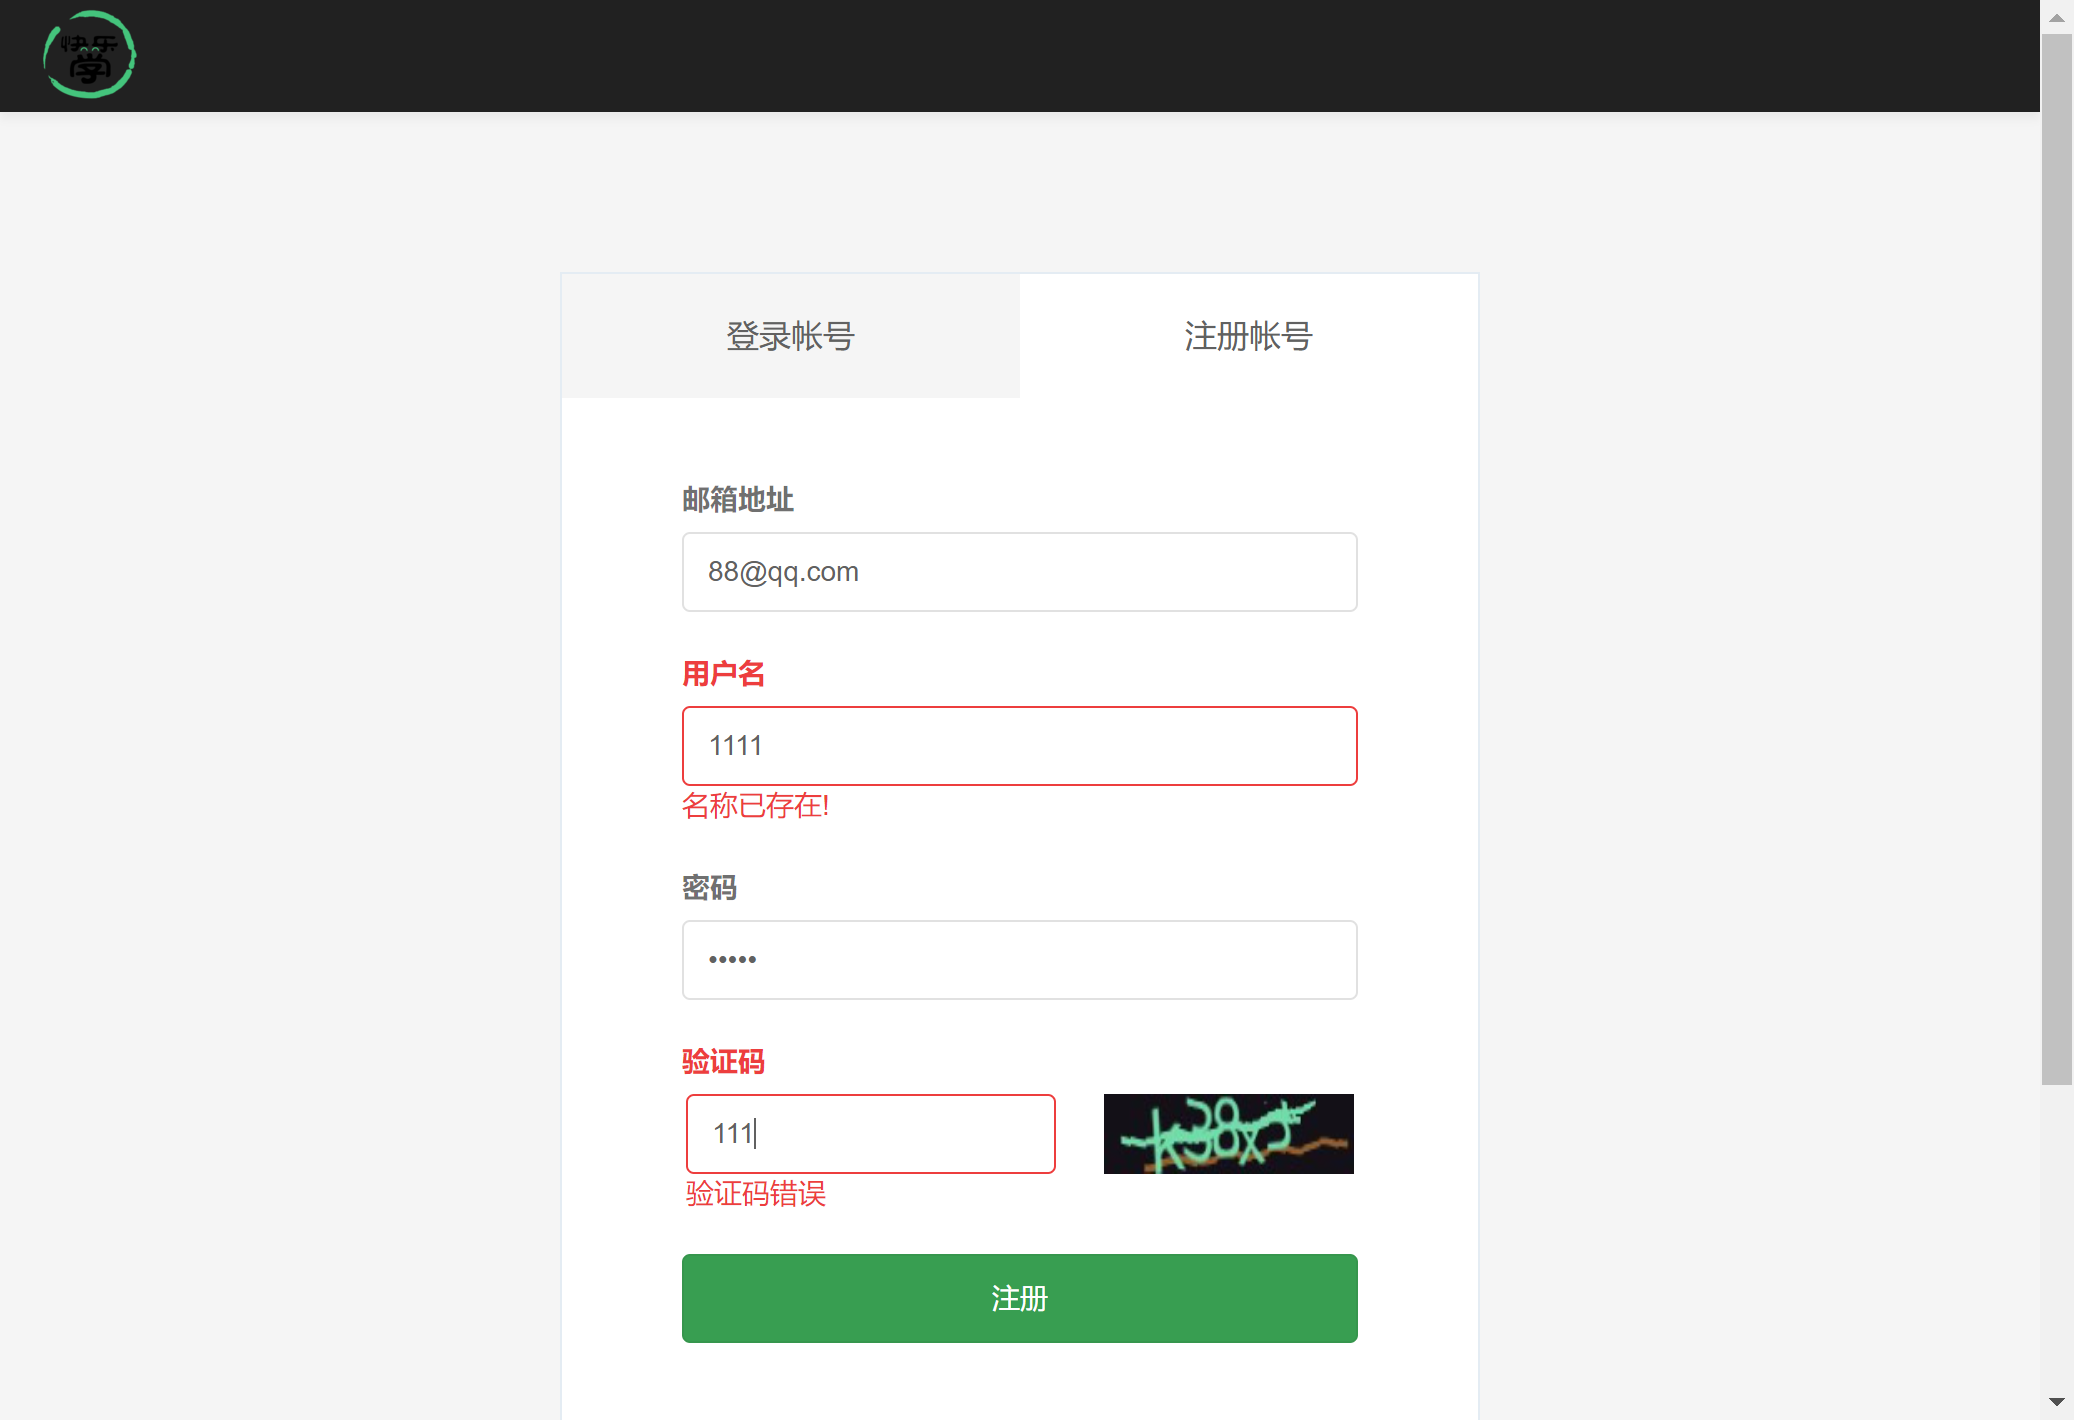
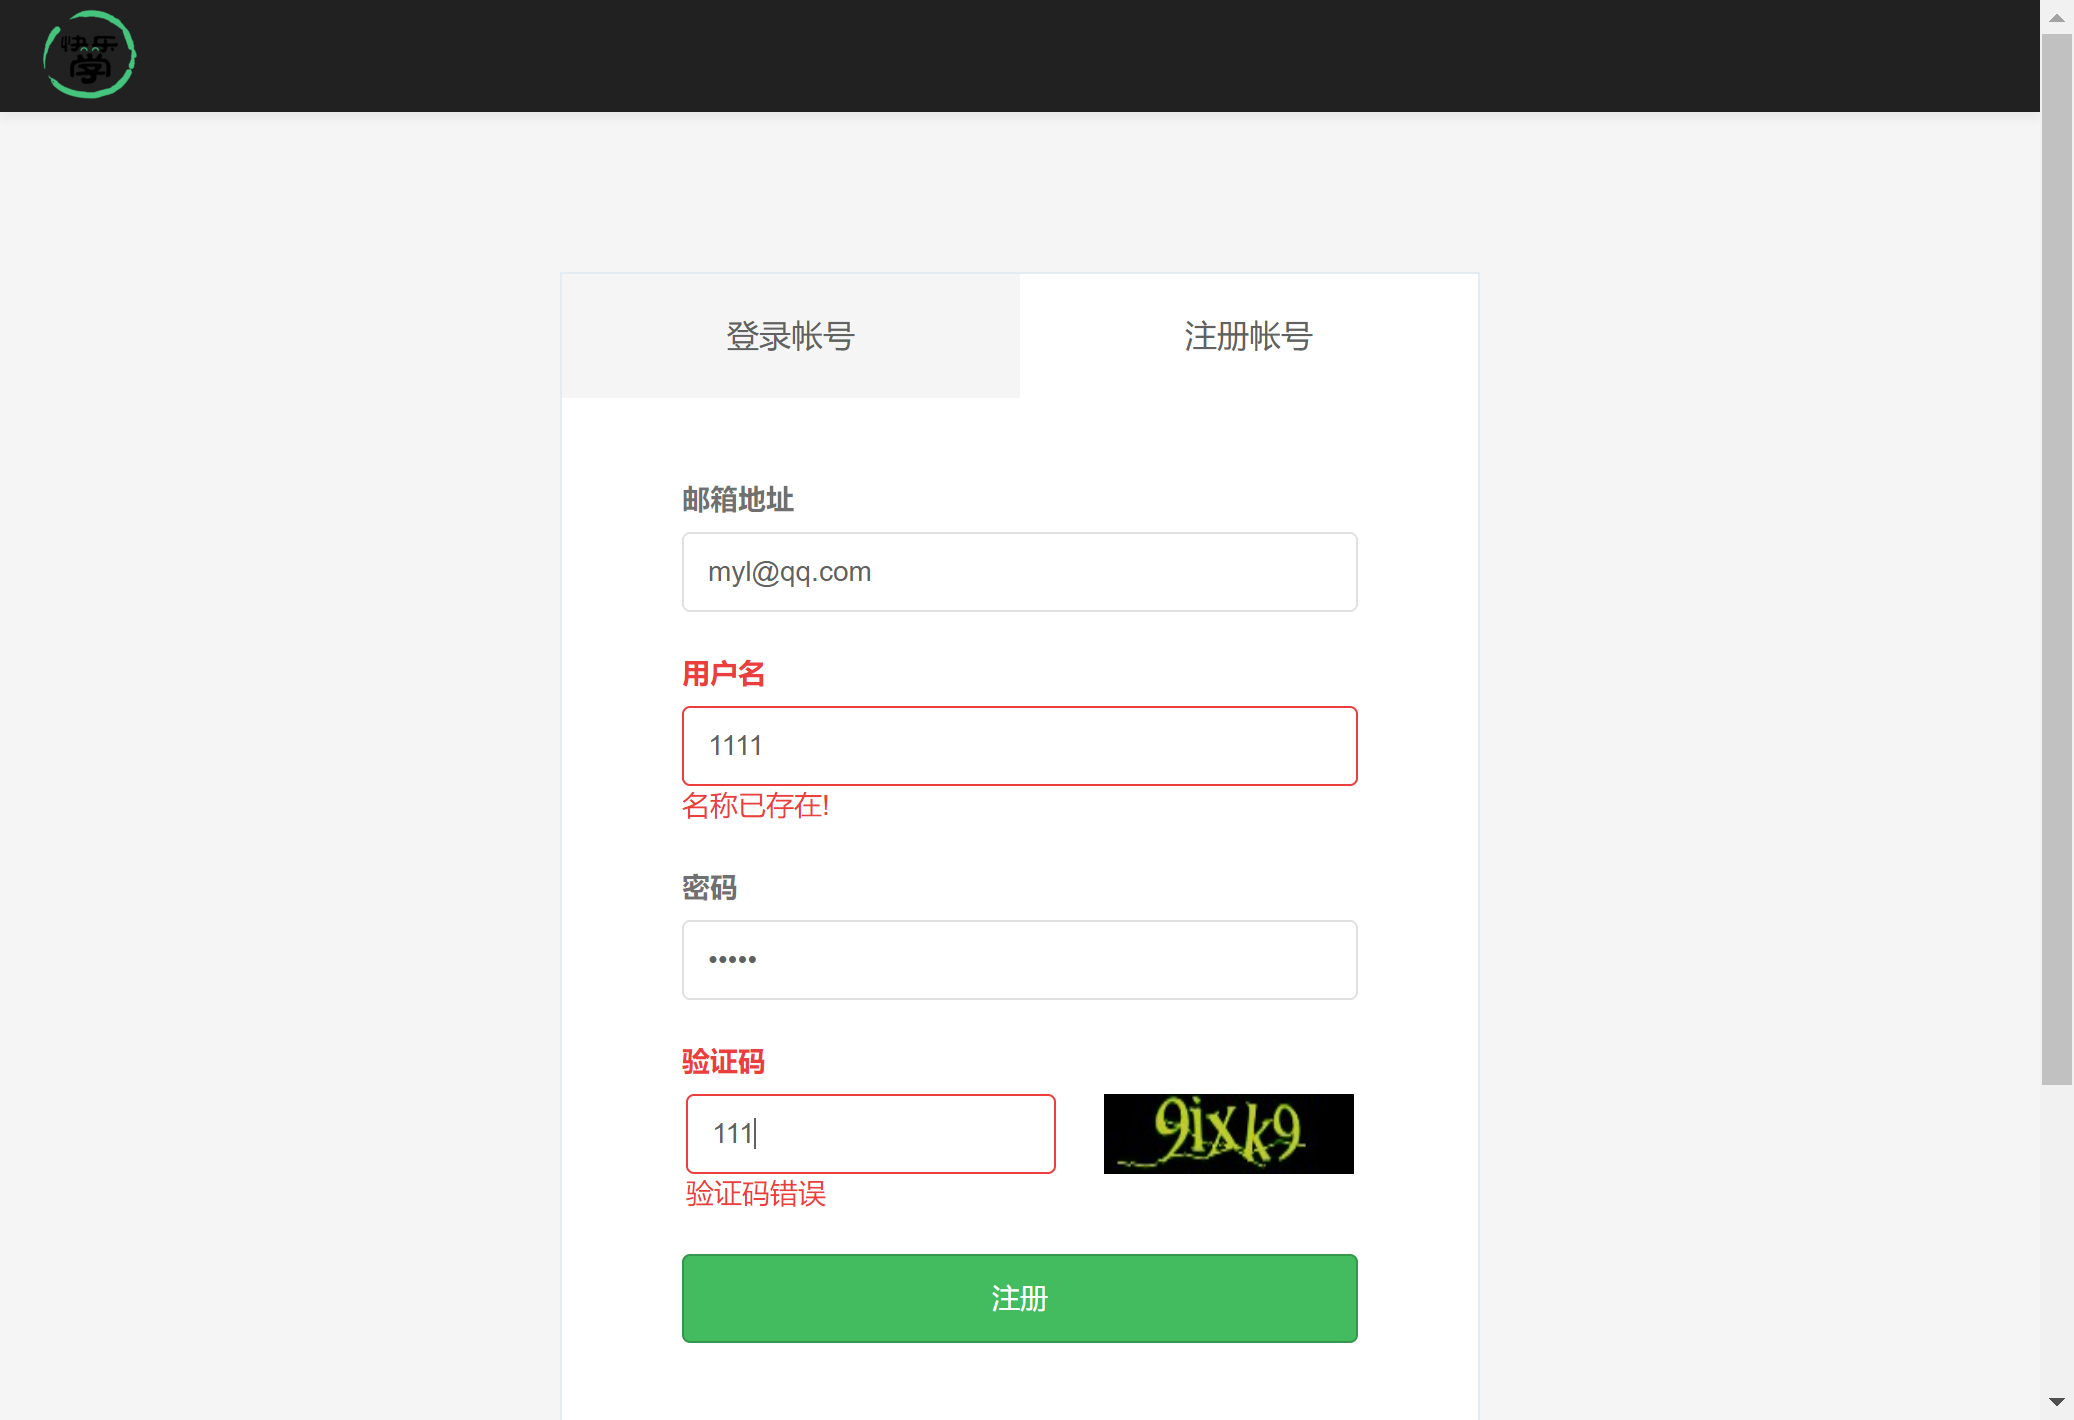
keyword 完

Changed region(s): [[0.3086, 0.8676, 0.6789, 0.9606], [0.5246, 0.7746, 0.648, 0.8366], [0.3394, 0.3718, 0.4012, 0.4338]]

diff --git a/case/keyword_case.py b/case/keyword_case.py
@@ -11,7 +11,7 @@ class KeywordCase:
         if case_lines:
             for i in range(1,case_lines):
                 is_run = handle_excel.get_col_values(i,3)
-                print(is_run)
+                #print(is_run)
                 if is_run == 'yes':
                     method = handle_excel.get_col_values(i,4)
                     send_value = handle_excel.get_col_values(i,5)
@@ -30,10 +30,11 @@ class KeywordCase:
                                 handle_excel.write_value(i,'fail')
                         elif except_value[0] == 'element':
                             result = self.run_method(except_result_method,except_value[1])
+                            print(result)
                             if result:
-                                handle_excel.write_value(i, 'pass')
+                                handle_excel.write_value(i,'pass')
                             else:
-                                handle_excel.write_value(i, 'fail')
+                                handle_excel.write_value(i,'fail')
                         else:
                             print('没有else')
                     else:
@@ -46,16 +47,16 @@ class KeywordCase:
 
     #如果send_value不为空的时候就执行
     def run_method(self,method,send_value='',handle_value=''):  #send_value有值就有值，如果没有值那我就认为你是空的
-        print(send_value,"----->",handle_value)
+        #print(send_value,"----->",handle_value)
         method_value = getattr(self.action_method,method)  #getattr()可以通过字符串拿到对象里面的方法，这里只是拿到了这个方法这个对象
         if send_value == '' and handle_value != '':
             result = method_value(handle_value)  #执行method,即打开浏览器
         elif send_value =='' and handle_value =='':
-            result = method_value(send_value,handle_value)
+            result = method_value()
         elif send_value !='' and handle_value =='':
             result = method_value(send_value)
         else:
-            result = method_value()
+            result = method_value(handle_value,send_value)
         return result
 
 if __name__=='__main__':

diff --git a/util/excel_util.py b/util/excel_util.py
@@ -4,10 +4,12 @@ from xlutils.copy import copy
 class ExcelUtil:
     def __init__(self,excel_path=None,index=None):
         if excel_path == None:
-            excel_path = "E:\pythonSelenium1\config\casedata.xls"
+            self.excel_path = "E:\pythonSelenium1\config\casedata.xls"
+        else:
+            self.excel_path =excel_path
         if index == None:
             index = 0
-        self.data = xlrd.open_workbook(excel_path)
+        self.data = xlrd.open_workbook(self.excel_path)
         self.table = self.data.sheets()[index]   #目的是将case读成[["A","B"],[],[]]
 
     #获取Excel数据，按照每行一个list，添加到一个大的list里面
@@ -35,10 +37,10 @@ class ExcelUtil:
 
     #写入数据
     def write_value(self,row,value):
-        read_value = self.data
+        read_value = xlrd.open_workbook(self.excel_path)
         write_data = copy(read_value) #复制工作表
-        write_data.get_sheet(0).write(row,7,value)  #get_sheet(0)获得工作表，然后write写入内容
-        write_data.save('E:\pythonSelenium1\config\keyword.xls')
+        write_data.get_sheet(0).write(row,9,value)  #get_sheet(0)获得工作表，然后write写入内容
+        write_data.save(self.excel_path)
 
 if __name__ == '__main__':
     ex = ExcelUtil('E:\pythonSelenium1\config\keyword.xls')

diff --git a/case/fist_case.py b/case/fist_case.py
@@ -32,14 +32,14 @@ class FistCase(unittest.TestCase):
 
 
     def testLoginEmailError(self):
-        emailError = self.login.loginEmailError('88@qq.com','1111','11111','111')
+        emailError = self.login.loginEmailError('myl@qq.com','1111','11111','111')
         self.assertFalse(emailError,"邮箱格式正确")
         # if emailError == True:
         #     print("注册成功了，此条case执行失败")
         #通过assert判断是否为error
 
     def testUsernameError(self):
-        usernameError = self.login.loginUsernameError('34@qq.com','111','11111','111')
+        usernameError = self.login.loginUsernameError('myl@qq.com','111','11111','111')
         self.assertFalse(usernameError,"用户名格式正确，这条case执行失败")
         # if usernameError == True:
         #     print("注册成功了，此条case执行失败")

diff --git a/util/read_ini.py b/util/read_ini.py
@@ -25,7 +25,7 @@ class ReadIni(object):   # class继承于object(封装)
 
 if __name__=='__main__':
     readIni = ReadIni()
-    print(readIni.getValue("userEmail"))
+    print(readIni.getValue("userEmailError"))
 
 
 
